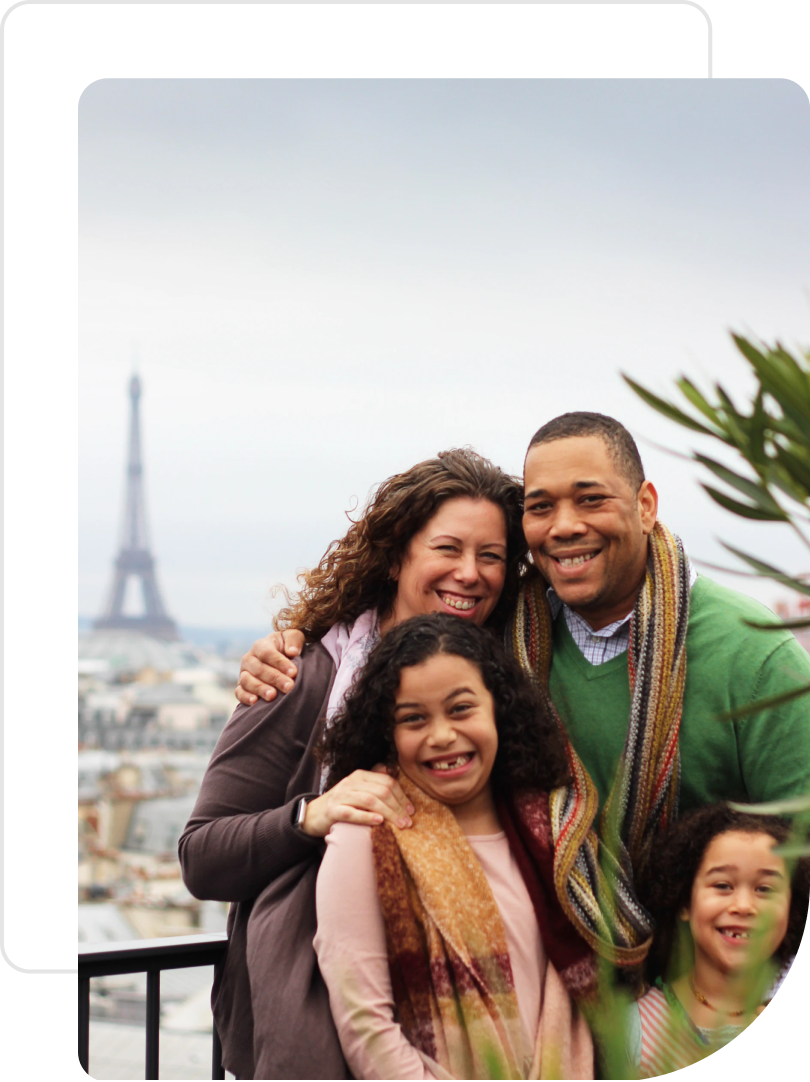
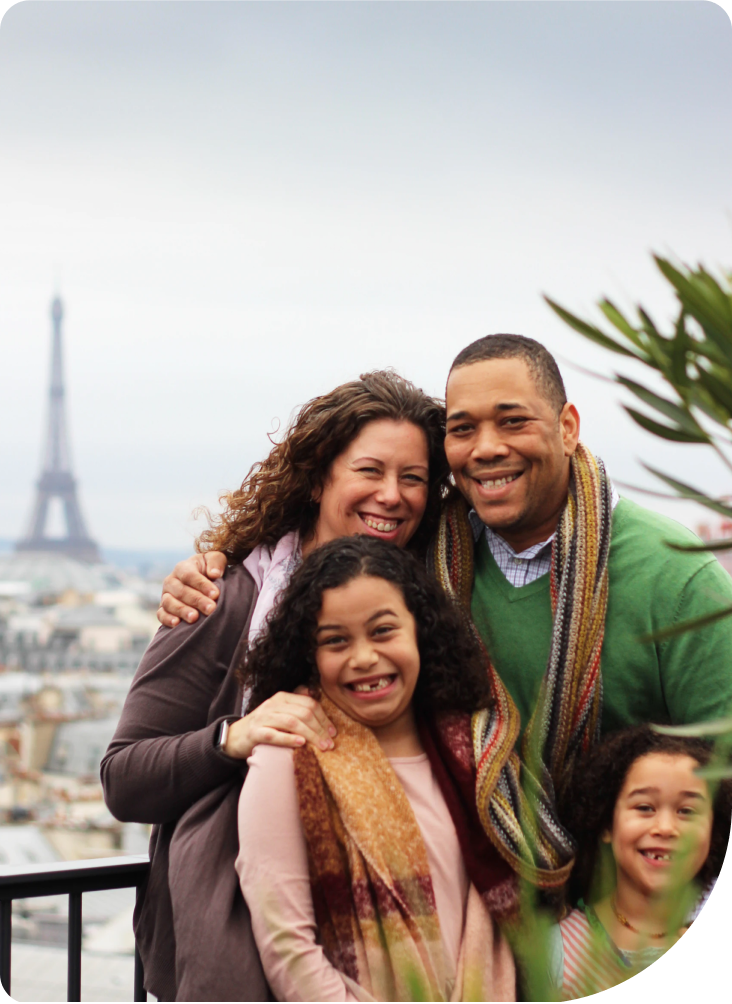
updates footer

diff --git a/src/parts/Footer.js b/src/parts/Footer.js
@@ -1,0 +1,79 @@
+import React from 'react'
+import Button from 'elements/Button'
+import IconText from 'parts/iconTest'
+
+export default function Footer() {
+    return (
+        <footer>
+            <div className="container">
+                <div className="row">
+                    <div className="col-auto" style={{width: 350}}>
+                        <IconText />
+                        <p className="brand-tagline">
+                            We kaboom your beauty holiday instantly and memorable.
+                        </p>
+                    </div>
+                    <div className="col-auto mr-5">
+                        <h6 className="mt-2">
+                            For Beginners
+                        </h6>
+                        <ul className="list-group list-group-flush">
+                            <li className="list-group-item">
+                                <Button type="link" href="/register">New Account</Button>
+                            </li>
+                            <li className="list-group-item">
+                                <Button type="link" href="/properties">Start Booking Room</Button>
+                            </li>
+                            <li className="list-group-item">
+                                <Button type="link" href="/use-payment">
+                                    Use Payments
+                                </Button>
+                            </li>
+                        </ul>
+                    </div>
+
+                    <div className="col-2 mr-5">
+                        <h6 className="mt-2">
+                            Explore Us
+                        </h6>
+                        <ul className="list-group list-group-flush">
+                            <li className="list-group-item">
+                                <Button type="link" href="/career">Our Careers</Button>
+                            </li>
+                            <li className="list-group-item">
+                                <Button type="link" href="/privacy">Privacy</Button>
+                            </li>
+                            <li className="list-group-item">
+                                <Button type="link" href="/terms">
+                                    Terms & Conditions
+                                </Button>
+                            </li>
+                        </ul>
+                    </div>
+
+                    <div className="col-3">
+                        <h6 className="mt-2">
+                            Contact Us
+                        </h6>
+                        <ul className="list-group list-group-flush">
+                            <li className="list-group-item">
+                                <Button isExternal type="link" href="mailto:support@staycation.id">support@staycation.id</Button>
+                            </li>
+                            <li className="list-group-item">
+                                <Button isExternal type="link" href="tel:+622122081996">021-2208-1996</Button>
+                            </li>
+                            <li className="list-group-item">
+                                <span>Staycation, Kemang,Jakarta</span>
+                            </li>
+                        </ul>
+                    </div>
+                </div>
+                <div className="row">
+                    <div className="col text-center copyrights">
+                    Copyright 2019 • All rights reserved • Staycation
+                    </div>
+                </div>
+            </div>
+        </footer>
+    )
+}

diff --git a/src/parts/Testimoni.js b/src/parts/Testimoni.js
@@ -1,0 +1,38 @@
+import React from 'react'
+import Star from 'elements/Star'
+import Button from 'elements/Button'
+import TestimoniAccent from 'assets/Images/testimonial.jpg'
+
+export default function Testimoni({ data }) {
+    return (
+        <section className="container">
+            <div className="row align-items-center">
+                <div className="col-auto" style={{ marginRight: 70 }}>
+                    <div className="testimonial-hero" style={{ margin: `30px 0 0 30px` }}>
+                        <img src={data.imageUrl} alt="Testimonial" className="position-absolute" style={{ zIndex: 1 }} />
+                        <img src={TestimoniAccent} alt="Testimonial frame" className="position-absolute" style={{ margin: `30px 0 0 30px`}} />
+                    </div>
+                </div>
+                <div className="col">
+                    <h4 style={{ marginBottom: 40 }}>{data.name}</h4>
+                    <Star value={data.rate} width={35} height={35} spacing={4}></Star>
+                    <h5 className="h2 font-weight-light line-height-2 my-3">
+                        {data.content}
+                    </h5>
+                    <span className="text-gray-500">
+                        {data.familyName}, {data.familyOccupation}
+                    </span>
+
+                    <div>
+                        <Button className="btn px-5" style={{ marginTop: 40 }}
+                            hasShadow isPrimary
+                            type="link"
+                            href={`/testimonial/${data._id}`}>
+                            Read Their Story
+                        </Button>
+                    </div>
+                </div>
+            </div>
+        </section>
+    )
+}

diff --git a/src/elements/Star/index.js b/src/elements/Star/index.js
@@ -1,0 +1,55 @@
+import React from 'react'
+import propTypes from 'prop-types'
+import "./index.scss";
+
+export default function Star({ className, value, height, width, spacing }) {
+
+    const decimals = Number(value) % 1
+    const star = []
+    let leftPos = 0
+    for (let index = 0; index < 5 && index < value - decimals; index++) {
+        leftPos = leftPos + width
+        star.push(
+            <div className="star" key={`star-${index}`} style={{ left: index * width, width: width, height: height, marginRight: spacing }}></div>
+        )
+    }
+
+    if (decimals > 0 && value <= 5)
+        star.push(
+            <div className="star" key={`starWithDecimal`} style={{
+                left: leftPos,
+                height: height,
+                width: decimals * width - spacing
+            }}>
+            </div>
+        )
+
+    const starPlaceholder = []
+    for (let index = 0; index < 5; index++) {
+        starPlaceholder.push(
+            <div
+                className="star placeholder"
+                key={`starPlaceholder-${index}`}
+                style={{ left: index * width,height: height, width: width, marginRight: spacing }}>
+
+            </div>
+        )
+    }
+
+    return (
+        <>
+            <div className={['stars', className].join(" ")} style={{ height: height }}>
+                {starPlaceholder}
+                {star}
+            </div>
+        </>
+    )
+}
+
+Star.propTypes = {
+    className: propTypes.string,
+    value: propTypes.number,
+    width: propTypes.number,
+    height: propTypes.number,
+    spacing: propTypes.number
+}

diff --git a/src/assets/scss/style.scss b/src/assets/scss/style.scss
@@ -4,7 +4,7 @@
  * Copyright 2011-2020 Twitter, Inc.
  * Licensed under MIT (https://github.com/twbs/bootstrap/blob/main/LICENSE)
  */
-
+ @import "colorVariable";
 @import "functions";
 @import "variables";
 @import "mixins";
@@ -190,5 +190,36 @@ section {
                 transform: scale(1);
             }
         }
+    }
+}
+
+.testimonial-hero, 
+.testimonial-hero img {
+    width: 365px;
+    height: 500px;
+}
+
+footer {
+    border-top: 1px solid $gray-200;
+    padding-top: 50px;
+
+    .list-group-item {
+        padding: 0.3125rem 0;
+        border: 0;
+        a,span {
+            color: $gray-500;
+            font-weight: 300;
+        }
+        a {
+            @include hover-focus {
+                color: $gray-800;
+            }
+        }
+    }
+
+    .copyrights {
+        margin: 50px 0;
+        font-weight: 300;
+        color: $gray-500;
     }
 }

diff --git a/src/assets/scss/_variables.scss b/src/assets/scss/_variables.scss
@@ -5,17 +5,7 @@
 
 // Color system
 
-$white:    #fff !default;
-$gray-100: #f8f9fa !default;
-$gray-200: #e9ecef !default;
-$gray-300: #dee2e6 !default;
-$gray-400: #ced4da !default;
-$gray-500: #adb5bd !default;
-$gray-600: #6c757d !default;
-$gray-700: #495057 !default;
-$gray-800: #343a40 !default;
-$gray-900:#152C5B !default;
-$black:    #000 !default;
+
 
 $grays: () !default;
 $grays: map-merge(
@@ -33,16 +23,6 @@ $grays: map-merge(
   $grays
 );
 
-$blue:    #007bff !default;
-$indigo: #3252DF !default;
-$purple:  #6f42c1 !default;
-$pink:   #FF498B !default;
-$red:     #dc3545 !default;
-$orange:  #fd7e14 !default;
-$yellow:  #ffc107 !default;
-$green:   #28a745 !default;
-$teal:    #20c997 !default;
-$cyan:    #17a2b8 !default;
 
 $colors: () !default;
 $colors: map-merge(

diff --git a/src/pages/LandingPage.js b/src/pages/LandingPage.js
@@ -4,6 +4,8 @@ import landingPage from "json/landingPage.json";
 import Hero from 'parts/Hero';
 import MostPicked from 'parts/mostPicked';
 import Categories from 'parts/Categories';
+import Testimoni from 'parts/Testimoni';
+import Footer from 'parts/Footer'
 
 export default class LandingPage extends Component {
     constructor(props) {
@@ -17,6 +19,8 @@ export default class LandingPage extends Component {
                 <Hero refMostPicked={this.refMostPicked} data={landingPage.hero}/>
                 <MostPicked refMostPicked={this.refMostPicked} data={landingPage.mostPicked}/>
                 <Categories data={landingPage.categories}/>
+                <Testimoni data={landingPage.testimonial}/>
+                <Footer/>
             </>
         )
     }

diff --git a/src/assets/scss/_colorVariable.scss b/src/assets/scss/_colorVariable.scss
@@ -1,0 +1,22 @@
+$white:    #fff !default;
+$gray-100: #f8f9fa !default;
+$gray-200: #e9ecef !default;
+$gray-300: #dee2e6 !default;
+$gray-400: #ced4da !default;
+$gray-500: #adb5bd !default;
+$gray-600: #6c757d !default;
+$gray-700: #495057 !default;
+$gray-800: #343a40 !default;
+$gray-900:#152C5B !default;
+$black:    #000 !default;
+
+$blue:    #007bff !default;
+$indigo: #3252DF !default;
+$purple:  #6f42c1 !default;
+$pink:   #FF498B !default;
+$red:     #dc3545 !default;
+$orange:  #fd7e14 !default;
+$yellow:  #ffc107 !default;
+$green:   #28a745 !default;
+$teal:    #20c997 !default;
+$cyan:    #17a2b8 !default;

diff --git a/src/elements/Star/index.scss b/src/elements/Star/index.scss
@@ -1,0 +1,24 @@
+@import '../../assets/scss/colorVariable';
+
+.stars {
+    position: relative;
+    min-width: 200px;
+    display: inline-flex;
+    .star {
+        position: absolute;
+        display: inline-flex;
+        mask: url(../../assets/Images/icons/icon_star.svg) no-repeat center left;
+        &:not(.placeholder) {
+            z-index: 2;
+            background-color: $yellow; 
+        }
+        &.placeholder {
+            z-index: 1;
+            background-color: $gray-200;
+        }
+    }
+
+    .star {
+
+    }
+}

diff --git a/src/assets/scss/_buttons.scss b/src/assets/scss/_buttons.scss
@@ -5,7 +5,8 @@
 //
 
 .btn {
-  display: inline-block;
+  display: inline-flex;
+  align-items: center;
   font-family: $btn-font-family;
   font-weight: $btn-font-weight;
   color: $body-color;
